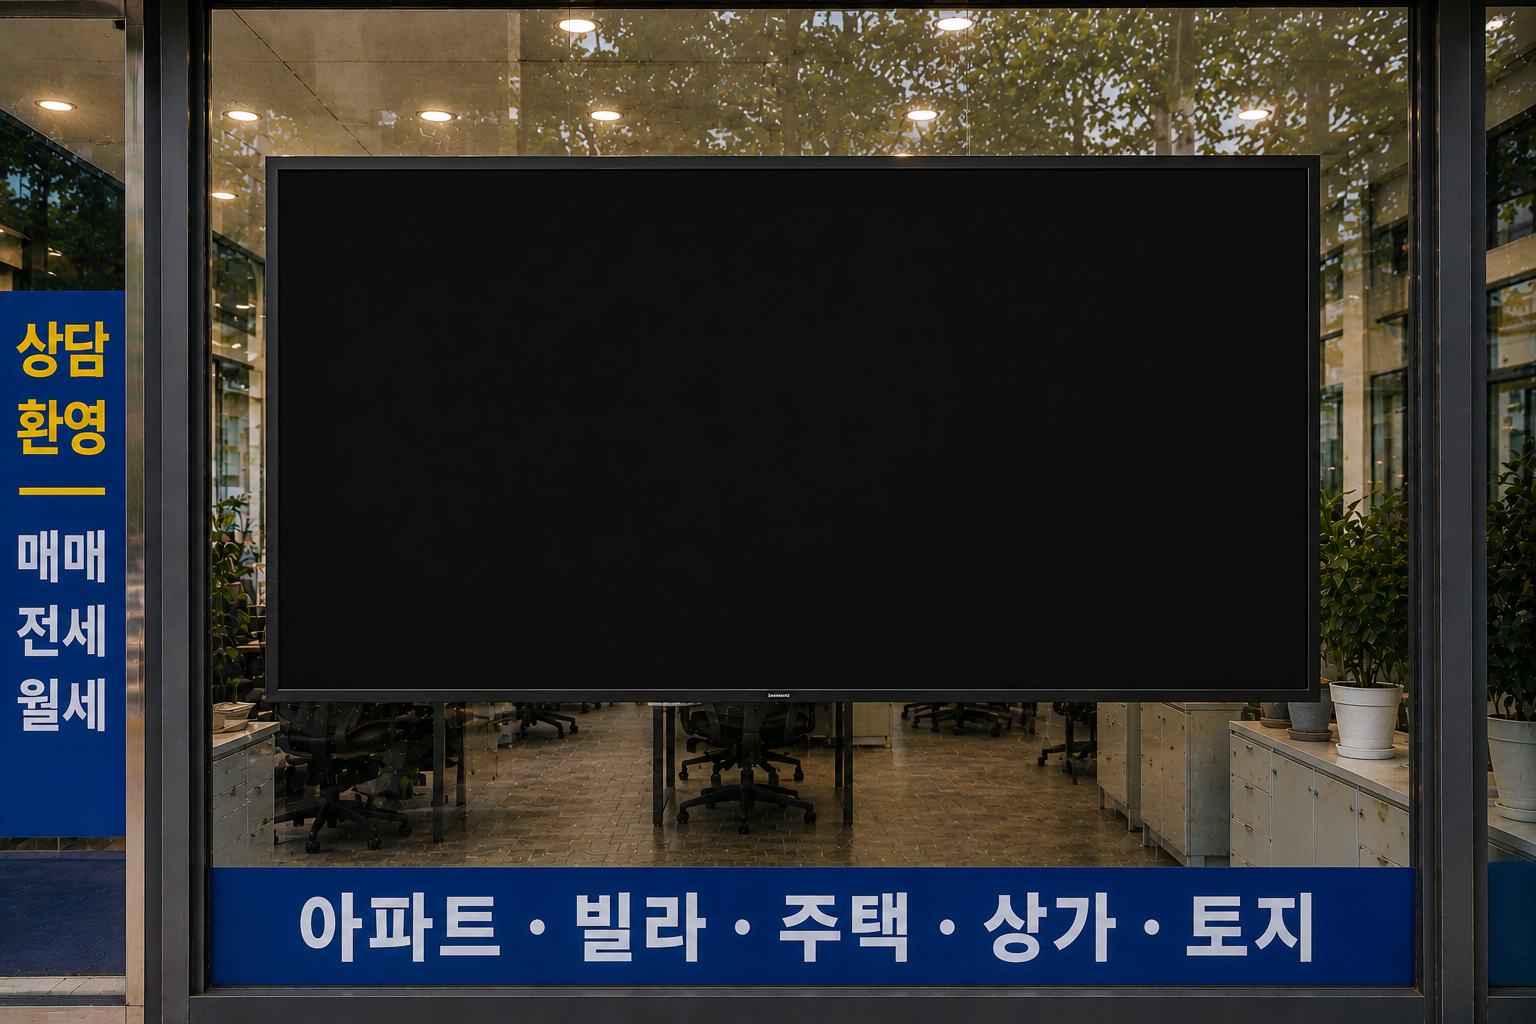
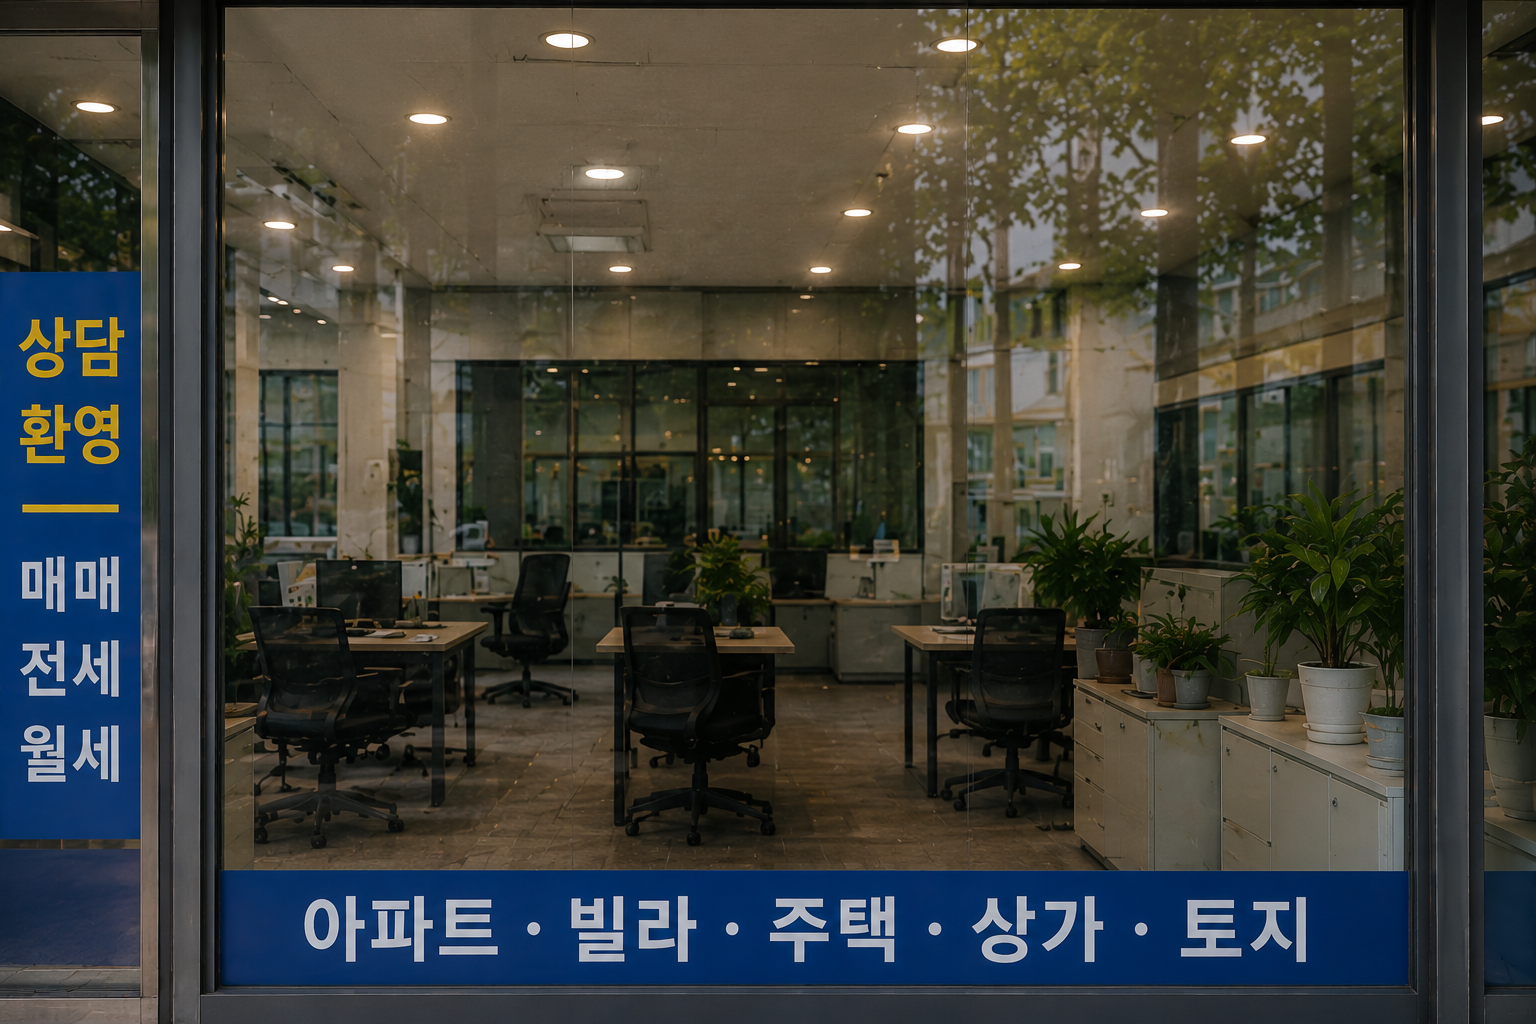
Add files via upload

diff --git a/css/style.css b/css/style.css
@@ -880,3 +880,99 @@ pointer-events:none;
     height:50.4%!important;
   }
 }
+
+/* ===== FINAL UPDATE: matched assets + CSS TV frame slider ===== */
+/* Before/After image areas use the same 3:2 asset ratio so neither side is stretched. */
+.media-split .visual.real-paper-visual,
+.media-split .visual.did-solution-visual{
+  height:auto!important;
+  aspect-ratio:3 / 2!important;
+}
+.real-paper-visual{
+  background-image:linear-gradient(0deg,rgba(0,0,0,.08),rgba(0,0,0,.08)),url('../assets/paper_ads_window.png')!important;
+  background-size:cover!important;
+  background-position:center!important;
+}
+.did-solution-visual{
+  position:relative!important;
+  overflow:hidden!important;
+  background:#111!important;
+}
+.did-solution-frame{
+  position:absolute!important;
+  inset:0!important;
+  width:100%!important;
+  height:100%!important;
+  object-fit:cover!important;
+  object-position:center!important;
+  z-index:1!important;
+}
+/* Draw the TV in CSS so it keeps a real 16:9 proportion and can be made larger without distorting. */
+.tv-screen-window{
+  position:absolute!important;
+  left:10.5%!important;
+  top:9.5%!important;
+  width:79%!important;
+  height:66.6%!important;
+  z-index:3!important;
+  overflow:hidden!important;
+  border-radius:4px!important;
+  background:#08090d!important;
+  border:12px solid #101010!important;
+  box-shadow:
+    0 0 0 2px rgba(255,255,255,.08),
+    0 16px 38px rgba(0,0,0,.42),
+    inset 0 0 0 1px rgba(255,255,255,.06)!important;
+}
+.tv-screen-window::before{
+  content:"";
+  position:absolute;
+  left:50%;
+  bottom:-22px;
+  width:18%;
+  height:22px;
+  transform:translateX(-50%);
+  background:linear-gradient(180deg,#1b1b1b,#050505);
+  border-radius:0 0 8px 8px;
+  z-index:0;
+  pointer-events:none;
+}
+.tv-screen-window::after{
+  content:""!important;
+  position:absolute!important;
+  inset:12px!important;
+  border-radius:2px!important;
+  background:linear-gradient(135deg,rgba(255,255,255,.10),transparent 34%,rgba(255,255,255,.07))!important;
+  pointer-events:none!important;
+  z-index:6!important;
+}
+.tv-slide{
+  inset:12px!important;
+  border-radius:2px!important;
+  overflow:hidden!important;
+  z-index:2!important;
+}
+.tv-slide b{
+  font-size:28px!important;
+}
+.tv-slide span{
+  font-size:15px!important;
+}
+@media(max-width:800px){
+  .media-split .visual.real-paper-visual,
+  .media-split .visual.did-solution-visual{
+    height:auto!important;
+    aspect-ratio:3 / 2!important;
+  }
+  .tv-screen-window{
+    left:10.5%!important;
+    top:9.5%!important;
+    width:79%!important;
+    height:66.6%!important;
+    border-width:8px!important;
+  }
+  .tv-screen-window::after{inset:8px!important;}
+  .tv-slide{inset:8px!important;}
+  .tv-slide b{font-size:20px!important;}
+  .tv-slide span{font-size:12px!important;padding:5px 10px!important;}
+}